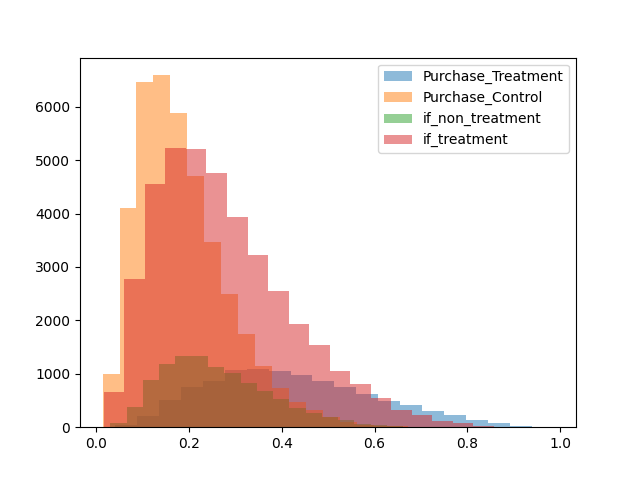
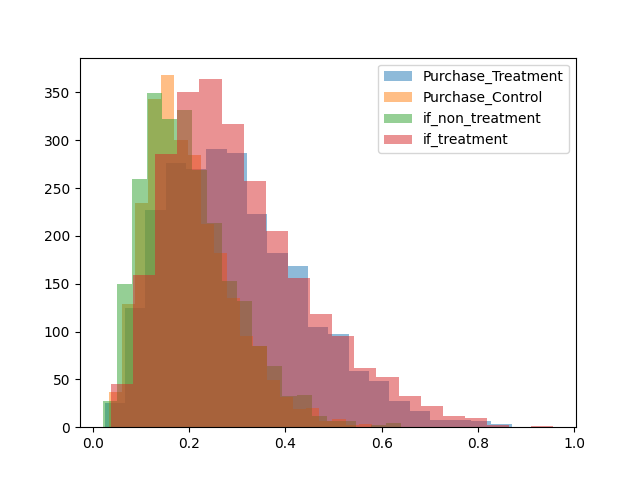
fix

diff --git a/main.py b/main.py
@@ -63,9 +63,9 @@ def get_roi_tpmsl(
     scaler = MinMaxScaler()
     roi_tpmsl = scaler.fit_transform(roi_tpmsl.reshape(-1, 1)).flatten()
     rmse_roi = np.sqrt(np.mean((test_dataset["true_ROI"] - roi_tpmsl) ** 2))
-    import pdb
+    # import pdb
 
-    pdb.set_trace()
+    # pdb.set_trace()
     return roi_tpmsl
 
 
@@ -74,12 +74,13 @@ def main(predict_ps: bool) -> None:
     n_samples = 50_000
     n_features = 4
     num_epochs = 50
+    lr = 0.001
     delta = 0.0
     batch_size = 512
     model_name = "Direct"
     model_params = {"input_dim": n_features}
     dataset = DatasetGenerator(
-        n_samples, n_features, delta, predict_ps=predict_ps, seed=seed
+        n_samples, n_features, delta, predict_ps=predict_ps, only_rct=False, seed=seed
     )
     dataset = dataset.generate_dataset()
     train_dataset, val_dataset, test_dataset = split_dataset(dataset)
@@ -88,51 +89,7 @@ def main(predict_ps: bool) -> None:
     method_list = method_list[:2]
     # method_list = []
     roi_dic = {}
-    lr_list: list = [0.001, 0.001]
     for i, method in enumerate(method_list):
-        train_dl = make_loader(
-            train_dataset,
-            model_name=model_name,
-            batch_size=batch_size,
-            train_flg=True,
-            method=method,
-            seed=seed,
-        )
-        val_dl = make_loader(
-            val_dataset,
-            model_name=model_name,
-            batch_size=batch_size,
-            train_flg=True,
-            method=method,
-            seed=seed,
-        )
-        test_dl = make_loader(
-            test_dataset,
-            model_name=model_name,
-            batch_size=batch_size,
-            train_flg=False,
-            method=method,
-            seed=seed,
-        )
-        trainer = Trainer(num_epochs=num_epochs, lr=lr_list[i])
-        model = trainer.train(train_dl=train_dl, val_dl=val_dl, model=model)
-        trainer.save_model(model, "model.pth")
-        predictions = trainer.predict(dl=test_dl, model=model).squeeze()
-        roi_dic[method] = predictions
-    roi_tpmsl = get_roi_tpmsl(
-        train_dataset,
-        test_dataset,
-    )
-    roi_dic["TPMSL_LGBM"] = roi_tpmsl
-    model_name = "SLearner"
-    model_params = {"input_dim": n_features + 1}
-    model = get_model(model_name=model_name, model_params=model_params)
-    method_list: list = ["cost", "revenue"]
-    method_list = []
-    prediction_sl: dict[str, NDArray[np.float64]] = {}
-    num_epochs = 50
-    lr = 0.00002
-    for method in method_list:
         train_dl = make_loader(
             train_dataset,
             model_name=model_name,
@@ -161,17 +118,56 @@ def main(predict_ps: bool) -> None:
         model = trainer.train(train_dl=train_dl, val_dl=val_dl, model=model)
         trainer.save_model(model, "model.pth")
         predictions = trainer.predict(dl=test_dl, model=model).squeeze()
-        prediction_sl[method] = predictions
-    # roi_dic["TPMSL"] = prediction_sl["revenue"] / (prediction_sl["cost"] + 1e-6)
-    # scaler = MinMaxScaler()
-    # roi_dic["TPMSL"] = scaler.fit_transform(roi_dic["TPMSL"].reshape(-1, 1)).flatten()
+        roi_dic[method] = predictions
+    roi_tpmsl = get_roi_tpmsl(
+        train_dataset,
+        test_dataset,
+    )
+    roi_dic["TPMSL_LGBM"] = roi_tpmsl
     roi_dic["Optimal"] = test_dataset["true_tau_r"] / test_dataset["true_tau_c"]
+    dataset_only_rct = DatasetGenerator(
+        n_samples, n_features, delta, predict_ps=predict_ps, only_rct=True, seed=seed
+    )
+    dataset_only_rct = dataset_only_rct.generate_dataset()
+    train_dataset_only_RCT, val_dataset_only_RCT, test_dataset_only_RCT = split_dataset(dataset_only_rct)
+    train_dl_only_RCT = make_loader(
+        train_dataset_only_RCT,
+        model_name=model_name,
+        batch_size=batch_size,
+        train_flg=True,
+        method="Direct",
+        seed=seed,
+    )
+    val_dl_only_RCT = make_loader(
+        val_dataset_only_RCT,
+        model_name=model_name,
+        batch_size=batch_size,
+        train_flg=True,
+        method="Direct",
+        seed=seed,
+    )
+    test_dl_only_RCT = make_loader(
+        test_dataset_only_RCT,
+        model_name=model_name,
+        batch_size=batch_size,
+        train_flg=False,
+        method="Direct",
+        seed=seed,
+    )
+    trainer = Trainer(num_epochs=num_epochs, lr=lr)
+    model = trainer.train(train_dl=train_dl_only_RCT, val_dl=val_dl_only_RCT, model=model)
+    trainer.save_model(model, "model.pth")
+    predictions = trainer.predict(dl=test_dl_only_RCT, model=model).squeeze()
     plt.clf()
     for roi in roi_dic:
         incremental_costs, incremental_values = calculate_values(
             roi_dic[roi], test_dataset["true_tau_r"], test_dataset["true_tau_c"]
         )
         cost_curve(incremental_costs, incremental_values, label=roi)
+    incremental_costs_only_RCT, incremental_values_only_RCT = calculate_values(
+        predictions, test_dataset_only_RCT["true_tau_r"], test_dataset_only_RCT["true_tau_c"]
+    )
+    cost_curve(incremental_costs_only_RCT, incremental_values_only_RCT, label="Direct_only_RCT")
 
 
 if __name__ == "__main__":

diff --git a/src/make_data.py b/src/make_data.py
@@ -14,18 +14,20 @@ def sigmoid(x: NDArray[np.float64]) -> NDArray[np.float64]:
 
 class DatasetGenerator:
     def __init__(
-        self, n_samples: int, n_features: int, delta: float, predict_ps: bool, seed: int
+        self, n_samples: int, n_features: int, delta: float, predict_ps: bool, only_rct: bool ,seed: int
     ):
         self.n_samples = n_samples
         self.n_features = n_features
         self.delta = delta
         self.predict_ps = predict_ps
+        self.only_rct = only_rct
         self.seed = seed
 
     def generate_dataset(self) -> dict[str, NDArray[Any]]:
         dataset: dict[str, NDArray[Any]] = {}
+        dataset |= self.set_rct_flag()
         dataset |= self.generate_feature()
-        dataset |= self.generate_treatment(dataset["features"])
+        dataset |= self.generate_treatment(dataset["features"], dataset["RCT_flag"])
         # auc_score = self.calculate_auc(dataset["T"], dataset["T_prob"])
         if self.predict_ps:
             dataset |= self.predict_treatment(dataset["features"], dataset["T"])
@@ -55,12 +57,26 @@ class DatasetGenerator:
 
         return dataset
 
+    def set_rct_flag(self) -> dict[str, NDArray[Any]]:
+        if self.only_rct:
+            rct_flag = np.ones(int(self.n_samples * 0.1))
+        else:
+            rct_flag = np.hstack(
+                [np.zeros(int(self.n_samples * 0.9)), np.ones(int(self.n_samples * 0.1))]
+            )
+        return {"RCT_flag": rct_flag}
+
     def generate_feature(self) -> Dict[str, NDArray[Any]]:
         np.random.seed(self.seed)
-        features = np.random.normal(size=(self.n_samples, self.n_features))
+        if self.only_rct:
+            features = np.random.normal(size=(int(self.n_samples * 0.1), self.n_features))
+        else:
+            features = np.random.normal(size=(self.n_samples, self.n_features))
         return {"features": features}
 
-    def generate_treatment(self, features: NDArray[Any]) -> Dict[str, NDArray[Any]]:
+    def generate_treatment(
+        self, features: NDArray[Any], rct_flag: NDArray[Any]
+    ) -> Dict[str, NDArray[Any]]:
         np.random.seed(self.seed)
         T_prob = sigmoid(
             (
@@ -71,6 +87,7 @@ class DatasetGenerator:
             / 0.8
         )
         T_prob = T_prob.clip(0.01, 0.99)
+        T_prob[rct_flag == 1] = 0.5
         T: NDArray[Any] = np.random.binomial(1, T_prob).astype(bool)
         treatment_prob = T_prob[T == 1]
         control_prob = T_prob[T == 0]
@@ -121,7 +138,9 @@ class DatasetGenerator:
         np.random.seed(self.seed)
 
         def effect(features: NDArray[Any]) -> Tuple[NDArray[Any], NDArray[Any]]:
-            baseline_effect = np.dot(features[:, :2], np.random.uniform(0.7, 1.0, 2)) - 1.0
+            baseline_effect = (
+                np.dot(features[:, :2], np.random.uniform(0.7, 1.0, 2)) - 1.0
+            )
             interaction_effect = np.exp(
                 np.dot(features[:, 2:4], np.random.uniform(0.3, 0.5, 2))
                 + 0.2 * features[:, 0]
@@ -209,9 +228,10 @@ class DatasetGenerator:
         np.random.seed(self.seed)
 
         def effect(features: NDArray[Any]) -> Tuple[NDArray[Any], NDArray[Any]]:
-            baseline_effect = np.dot(
-                features[:, 0].reshape(-1, 1), np.random.uniform(1.0, 1.5, 1)
-            ) - 1.0
+            baseline_effect = (
+                np.dot(features[:, 0].reshape(-1, 1), np.random.uniform(1.0, 1.5, 1))
+                - 1.0
+            )
             interaction_effect = np.exp(
                 np.dot(features[:, 2].reshape(-1, 1), np.random.uniform(0.3, 0.5, 1))
                 + 0.2 * features[:, 0]
@@ -279,9 +299,9 @@ class DatasetGenerator:
         )
         plt.legend()
         plt.savefig("purchase_prob.png")
-        import pdb
+        # import pdb
 
-        pdb.set_trace()
+        # pdb.set_trace()
         true_mu_r_1 = sigmoid(baseline_effect + interaction_effect - a) + noise
         true_mu_r_0 = sigmoid(baseline_effect - a) + noise
         true_tau_r = true_mu_r_1 - true_mu_r_0
@@ -366,11 +386,12 @@ class DatasetGenerator:
 def split_dataset(
     dataset: Dict[str, NDArray[Any]],
 ) -> Tuple[Dict[str, NDArray[Any]], Dict[str, NDArray[Any]], Dict[str, NDArray[Any]]]:
+    dataset["strata"] = dataset["T"] * 1.1 + dataset["RCT_flag"]
     train_val_idx, test_idx = train_test_split(
         np.arange(len(dataset["features"])),
         train_size=0.8,
         random_state=0,
-        stratify=dataset["T"],
+        stratify=dataset["strata"],
     )
     train_val_dataset = {}
     test_dataset = {}
@@ -382,7 +403,7 @@ def split_dataset(
         np.arange(len(train_val_dataset["features"])),
         train_size=0.75,
         random_state=0,
-        stratify=train_val_dataset["T"],
+        stratify=train_val_dataset["strata"],
     )
     train_dataset = {}
     val_dataset = {}
